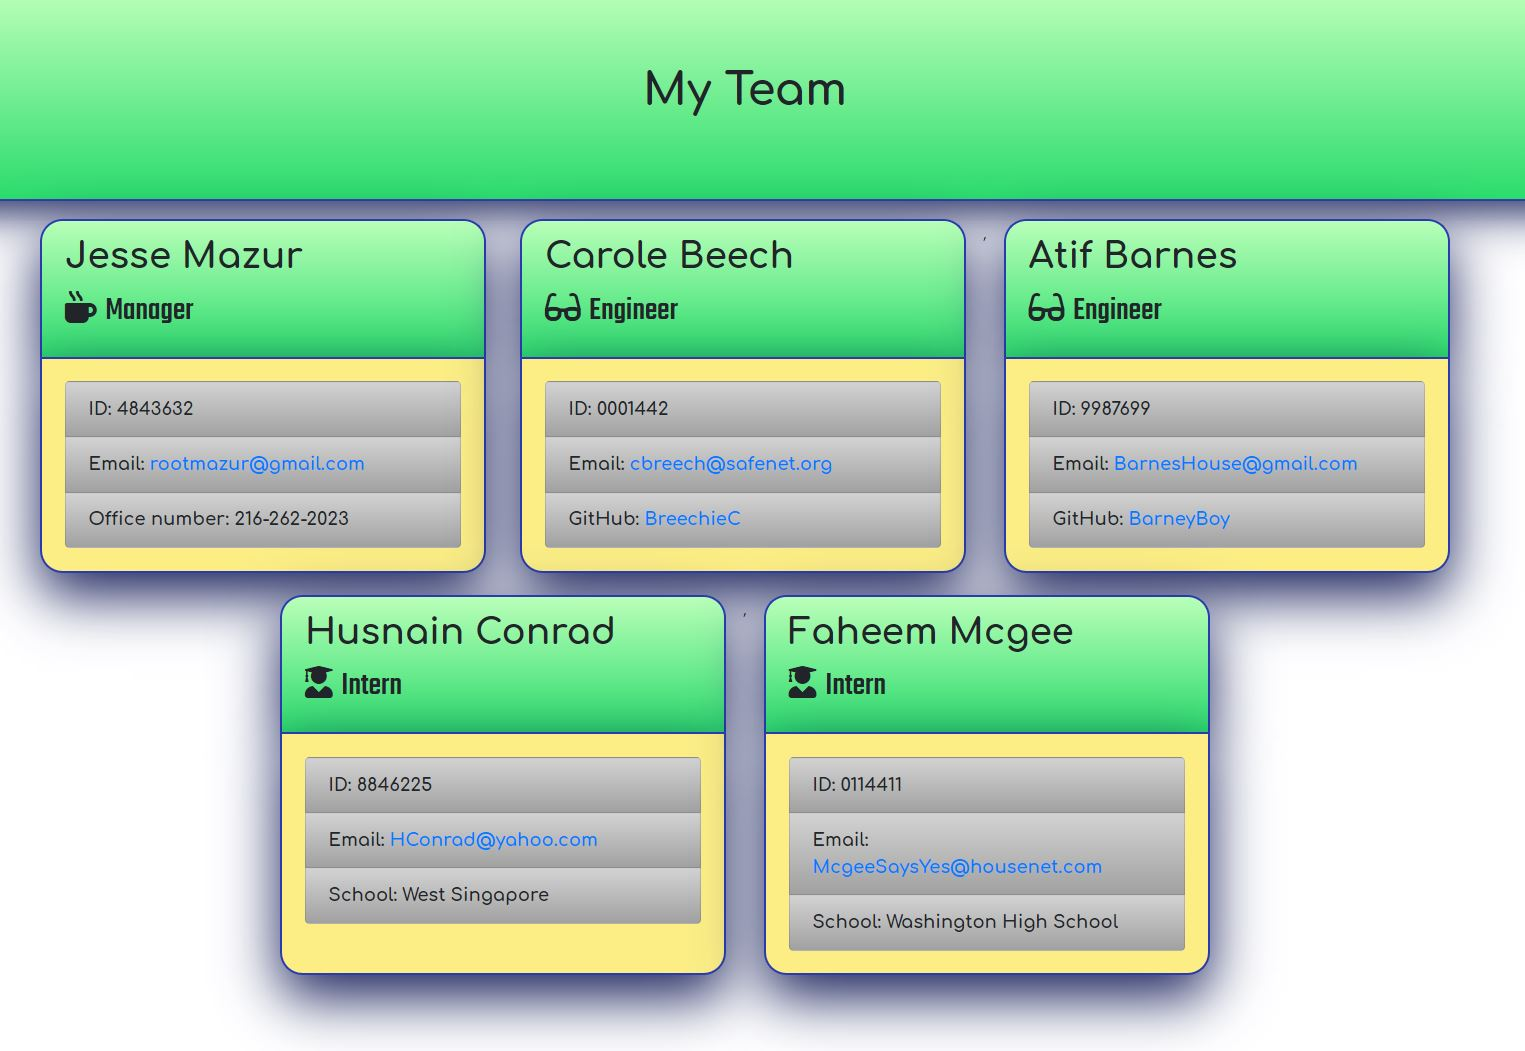
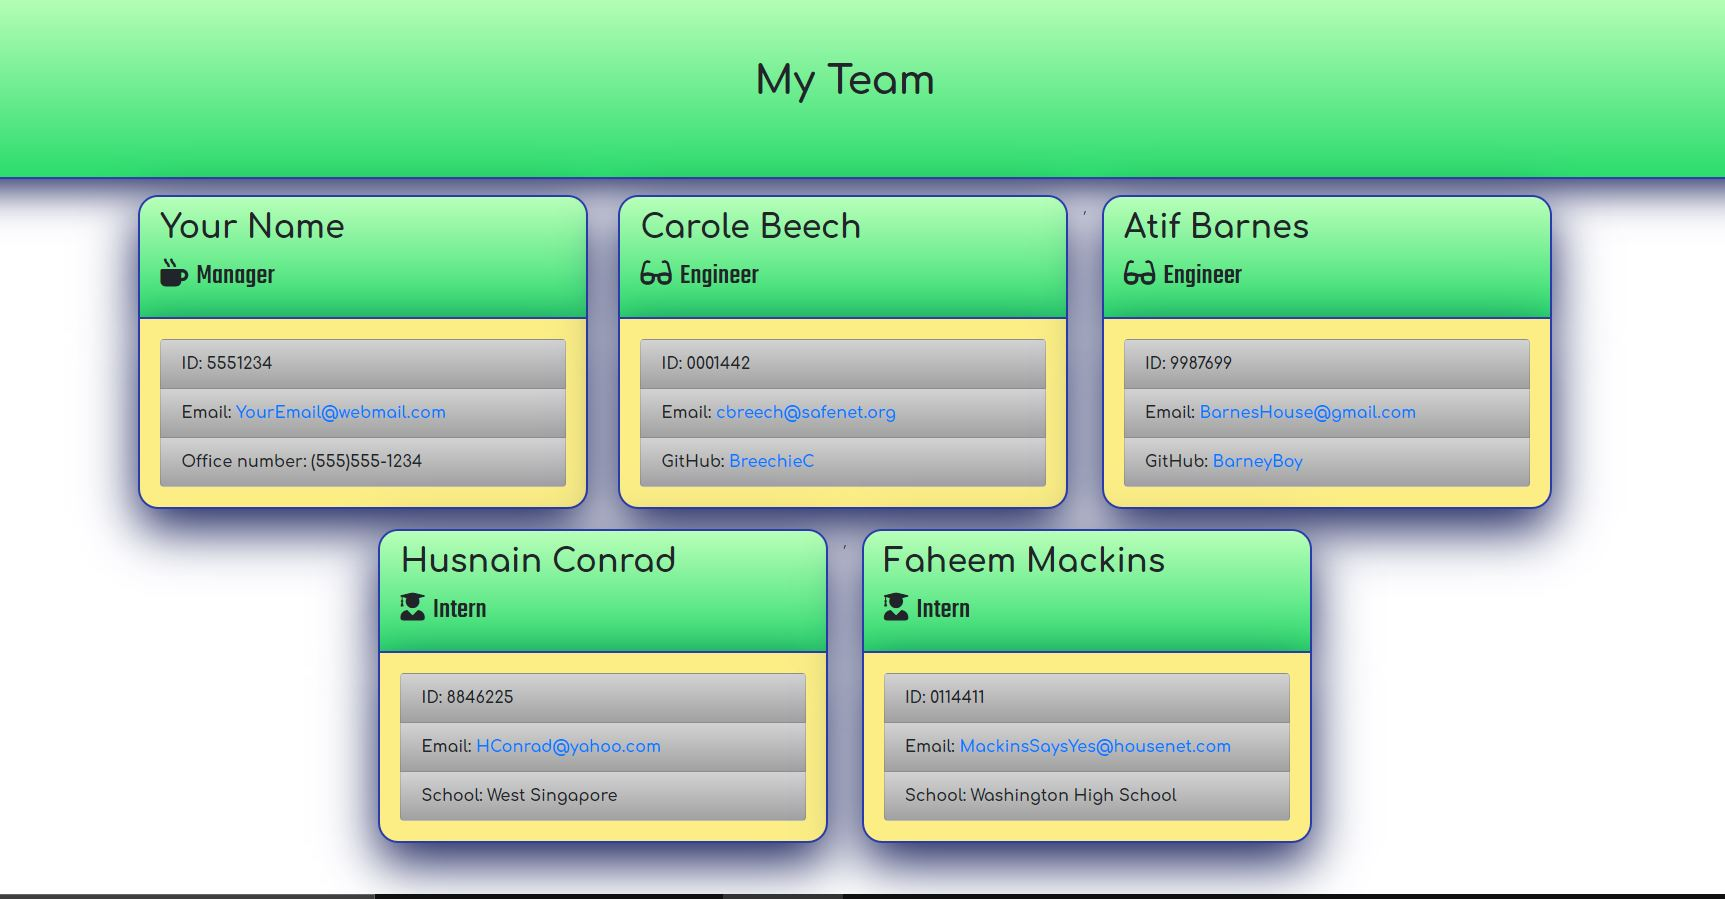
change line endings

diff --git a/output/team.html b/output/team.html
@@ -27,14 +27,14 @@
 		<div class="team-area row justify-content-center">
 			<div class="col-md-3 col-sm-6 col-6 card employee-card">
     <div class="card-header">
-        <h2 class="card-title">Jesse Mazur</h2>
+        <h2 class="card-title">Your Name</h2>
         <h3 class="card-title"><i class="fas fa-mug-hot mr-2"></i>Manager</h3>
     </div>
     <div class="card-body">
         <ul class="list-group">
-            <li class="list-group-item">ID: 4843632</li>
-            <li class="list-group-item">Email: <a href="mailto:rootmazur@gmail.com">rootmazur@gmail.com</a></li>
-            <li class="list-group-item">Office number: 216-262-2023</li>
+            <li class="list-group-item">ID: 5551234</li>
+            <li class="list-group-item">Email: <a href="mailto:YourEmail@webmail.com">YourEmail@webmail.com</a></li>
+            <li class="list-group-item">Office number: (555)555-1234</li>
         </ul>
     </div>
 </div>
@@ -79,13 +79,13 @@
 </div>
 ,<div class="col-md-3 col-sm-6 col-6 card employee-card">
     <div class="card-header">
-        <h2 class="card-title">Faheem Mcgee</h2>
+        <h2 class="card-title">Faheem Mackins</h2>
         <h3 class="card-title"><i class="fas fa-user-graduate mr-2"></i>Intern</h3>
     </div>
     <div class="card-body">
         <ul class="list-group">
             <li class="list-group-item">ID: 0114411</li>
-            <li class="list-group-item">Email: <a href="mailto:McgeeSaysYes@housenet.com">McgeeSaysYes@housenet.com</a></li>
+            <li class="list-group-item">Email: <a href="mailto:MackinsSaysYes@housenet.com">MackinsSaysYes@housenet.com</a></li>
             <li class="list-group-item">School: Washington High School</li>
         </ul>
     </div>

diff --git a/readme.md b/readme.md
@@ -4,6 +4,12 @@
 
 ![screenshot](./Assets/images/cli.JPG)
 
+## Concepts within
+
+- Javascript Classes
+- npm inquirer
+- 
+
 ## Getting Started
 
 This is the official EMPLOYEE MANAGER CLI for use to draft Development Teams quickly and generate a Website of it's roster.
